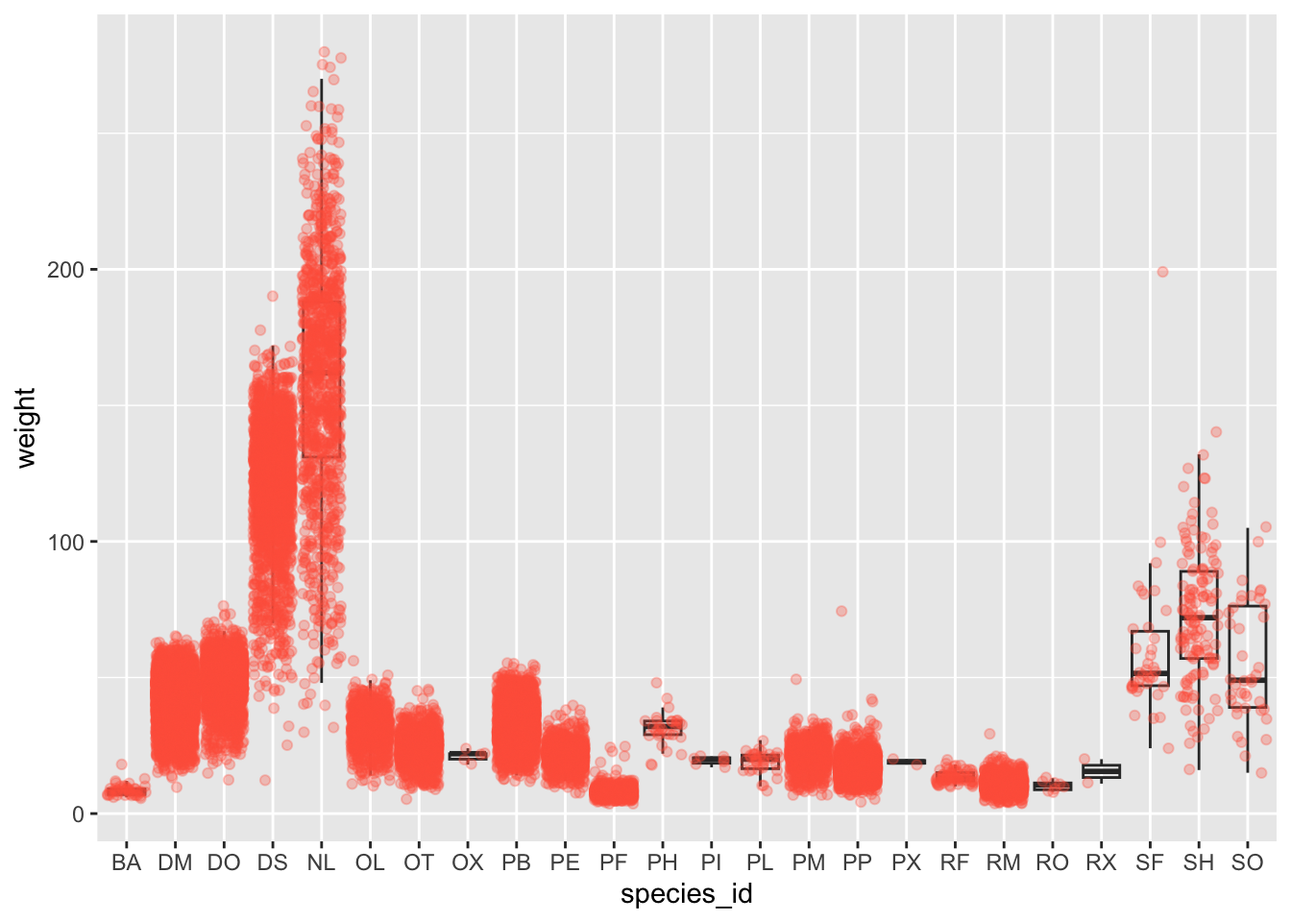
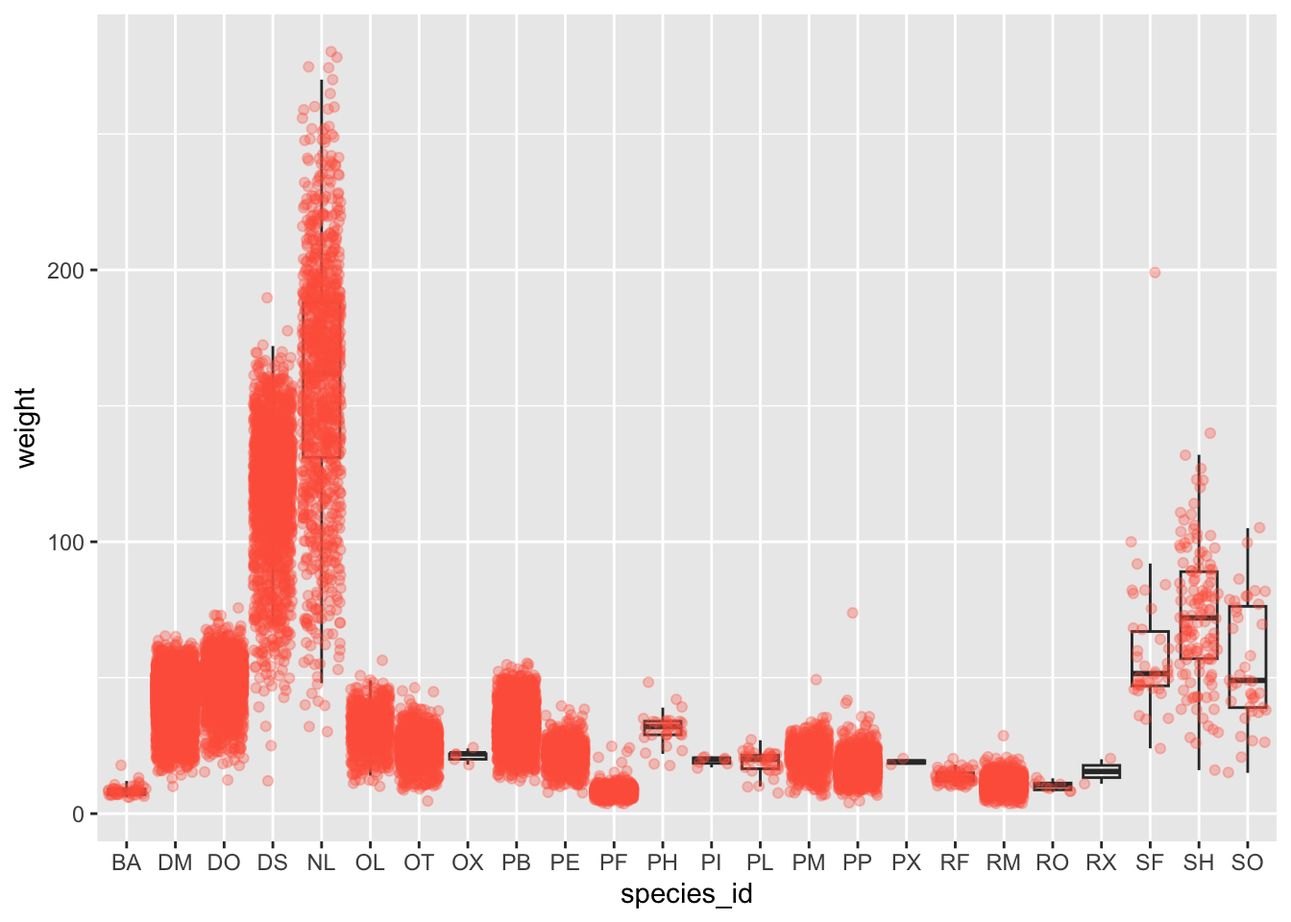
change bonus plot header

diff --git a/docs/lesson_wk07_data_visualization.html b/docs/lesson_wk07_data_visualization.html
@@ -487,10 +487,6 @@ Discussion</a></li>
 <p><a
 href="https://canvas.ucdavis.edu/courses/1019595/assignments/1509412">Submit
 Week 7 In Class Coding</a></p>
-</div>
-<div id="add-a-package-checkinstall-code-block-after-the-yaml-header."
-class="section level1">
-<h1>Add a package check/install code block after the YAML header.</h1>
 <p><br></p>
 </div>
 <div id="part-1-building-plots-with-ggplot2" class="section level1">
@@ -761,7 +757,7 @@ to the location of each point.</p>
 ## It has 2 layers.
 ## Layer 1 is a boxplot comprised of 24 vertical boxes with whiskers.
 ## Layer 1 has alpha set to 0.
-## Layer 2 is a set of 30676 big solid circle points of which about 3.8% can be seen.
+## Layer 2 is a set of 30676 big solid circle points of which about 3.7% can be seen.
 ## Layer 2 has alpha set to 0.3.
 ## Layer 2 has colour set to vivid reddish orange.</code></pre>
 <p>Notice how the boxplot layer is behind the jitter layer? What do you
@@ -817,7 +813,7 @@ ggplot(data = surveys_complete, mapping = aes(x = species_id, y = weight)) +
 ## It has x-axis &#39;species_id&#39; with labels BA, DM, DO, DS, NL, OL, OT, OX, PB, PE, PF, PH, PI, PL, PM, PP, PX, RF, RM, RO, RX, SF, SH and SO.
 ## It has y-axis &#39;weight&#39; with labels 10, 30, 100 and 300.
 ## It has 2 layers.
-## Layer 1 is a set of 30676 big solid circle points of which about 5% can be seen.
+## Layer 1 is a set of 30676 big solid circle points of which about 5.1% can be seen.
 ## Layer 1 has alpha set to 0.3.
 ## Layer 1 has colour set to vivid reddish orange.
 ## Layer 2 is a violin graph that VI cannot process.
@@ -858,7 +854,7 @@ surveys_complete %&gt;%
 ## 23 shown as vivid purplish red colour and 
 ## 24 shown as vivid purplish red colour.
 ## It has 2 layers.
-## Layer 1 is a set of 2514 big solid circle points of which about 39% can be seen.
+## Layer 1 is a set of 2514 big solid circle points of which about 40% can be seen.
 ## These are offset by added random noise, and sorted by as.factor(plot_id).
 ## Layer 1 has alpha set to 0.3.
 ## Layer 2 is a boxplot comprised of 2 vertical boxes with whiskers.
@@ -1880,11 +1876,11 @@ length and petal width visually looks like this:</p>
 <source src="sw.width.length.sound.wav" type="audio/wav">
 </audio>
 </div>
-<div id="bonus-content" class="section level2">
-<h2>BONUS CONTENT</h2>
+</div>
+<div id="bonus-content" class="section level1">
+<h1>BONUS CONTENT</h1>
 <p>This is provided for your reference, but won’t be something we cover
 in class or address on the exam.</p>
-</div>
 <div id="publishing-plots-cowplot" class="section level2">
 <h2>Publishing Plots: <code>cowplot</code></h2>
 <p>A few excellent options exist for creating multi-paneled plots for
@@ -1941,8 +1937,8 @@ plot.iris &lt;- ggplot(data=iris, aes(x=Sepal.Length, y=Petal.Length, fill=Speci
   geom_point(size=3, alpha=0.7, shape=21)
 
 plotly::ggplotly(plot.iris) #it&#39;s as simple as that! </code></pre>
-<div class="plotly html-widget html-fill-item" id="htmlwidget-76a84ceac3b45fcd2022" style="width:672px;height:480px;"></div>
-<script type="application/json" data-for="htmlwidget-76a84ceac3b45fcd2022">{"x":{"data":[{"x":[5.0999999999999996,4.9000000000000004,4.7000000000000002,4.5999999999999996,5,5.4000000000000004,4.5999999999999996,5,4.4000000000000004,4.9000000000000004,5.4000000000000004,4.7999999999999998,4.7999999999999998,4.2999999999999998,5.7999999999999998,5.7000000000000002,5.4000000000000004,5.0999999999999996,5.7000000000000002,5.0999999999999996,5.4000000000000004,5.0999999999999996,4.5999999999999996,5.0999999999999996,4.7999999999999998,5,5,5.2000000000000002,5.2000000000000002,4.7000000000000002,4.7999999999999998,5.4000000000000004,5.2000000000000002,5.5,4.9000000000000004,5,5.5,4.9000000000000004,4.4000000000000004,5.0999999999999996,5,4.5,4.4000000000000004,5,5.0999999999999996,4.7999999999999998,5.0999999999999996,4.5999999999999996,5.2999999999999998,5],"y":[1.3999999999999999,1.3999999999999999,1.3,1.5,1.3999999999999999,1.7,1.3999999999999999,1.5,1.3999999999999999,1.5,1.5,1.6000000000000001,1.3999999999999999,1.1000000000000001,1.2,1.5,1.3,1.3999999999999999,1.7,1.5,1.7,1.5,1,1.7,1.8999999999999999,1.6000000000000001,1.6000000000000001,1.5,1.3999999999999999,1.6000000000000001,1.6000000000000001,1.5,1.5,1.3999999999999999,1.5,1.2,1.3,1.3999999999999999,1.3,1.5,1.3,1.3,1.3,1.6000000000000001,1.8999999999999999,1.3999999999999999,1.6000000000000001,1.3999999999999999,1.5,1.3999999999999999],"text":["Sepal.Length: 5.1<br />Petal.Length: 1.4<br />Species: setosa","Sepal.Length: 4.9<br />Petal.Length: 1.4<br />Species: setosa","Sepal.Length: 4.7<br />Petal.Length: 1.3<br />Species: setosa","Sepal.Length: 4.6<br />Petal.Length: 1.5<br />Species: setosa","Sepal.Length: 5.0<br />Petal.Length: 1.4<br />Species: setosa","Sepal.Length: 5.4<br />Petal.Length: 1.7<br />Species: setosa","Sepal.Length: 4.6<br />Petal.Length: 1.4<br />Species: setosa","Sepal.Length: 5.0<br />Petal.Length: 1.5<br />Species: setosa","Sepal.Length: 4.4<br />Petal.Length: 1.4<br />Species: setosa","Sepal.Length: 4.9<br />Petal.Length: 1.5<br />Species: setosa","Sepal.Length: 5.4<br />Petal.Length: 1.5<br />Species: setosa","Sepal.Length: 4.8<br />Petal.Length: 1.6<br />Species: setosa","Sepal.Length: 4.8<br />Petal.Length: 1.4<br />Species: setosa","Sepal.Length: 4.3<br />Petal.Length: 1.1<br />Species: setosa","Sepal.Length: 5.8<br />Petal.Length: 1.2<br />Species: setosa","Sepal.Length: 5.7<br />Petal.Length: 1.5<br />Species: setosa","Sepal.Length: 5.4<br />Petal.Length: 1.3<br />Species: setosa","Sepal.Length: 5.1<br />Petal.Length: 1.4<br />Species: setosa","Sepal.Length: 5.7<br />Petal.Length: 1.7<br />Species: setosa","Sepal.Length: 5.1<br />Petal.Length: 1.5<br />Species: setosa","Sepal.Length: 5.4<br />Petal.Length: 1.7<br />Species: setosa","Sepal.Length: 5.1<br />Petal.Length: 1.5<br />Species: setosa","Sepal.Length: 4.6<br />Petal.Length: 1.0<br />Species: setosa","Sepal.Length: 5.1<br />Petal.Length: 1.7<br />Species: setosa","Sepal.Length: 4.8<br />Petal.Length: 1.9<br />Species: setosa","Sepal.Length: 5.0<br />Petal.Length: 1.6<br />Species: setosa","Sepal.Length: 5.0<br />Petal.Length: 1.6<br />Species: setosa","Sepal.Length: 5.2<br />Petal.Length: 1.5<br />Species: setosa","Sepal.Length: 5.2<br />Petal.Length: 1.4<br />Species: setosa","Sepal.Length: 4.7<br />Petal.Length: 1.6<br />Species: setosa","Sepal.Length: 4.8<br />Petal.Length: 1.6<br />Species: setosa","Sepal.Length: 5.4<br />Petal.Length: 1.5<br />Species: setosa","Sepal.Length: 5.2<br />Petal.Length: 1.5<br />Species: setosa","Sepal.Length: 5.5<br />Petal.Length: 1.4<br />Species: setosa","Sepal.Length: 4.9<br />Petal.Length: 1.5<br />Species: setosa","Sepal.Length: 5.0<br />Petal.Length: 1.2<br />Species: setosa","Sepal.Length: 5.5<br />Petal.Length: 1.3<br />Species: setosa","Sepal.Length: 4.9<br />Petal.Length: 1.4<br />Species: setosa","Sepal.Length: 4.4<br />Petal.Length: 1.3<br />Species: setosa","Sepal.Length: 5.1<br />Petal.Length: 1.5<br />Species: setosa","Sepal.Length: 5.0<br />Petal.Length: 1.3<br />Species: setosa","Sepal.Length: 4.5<br />Petal.Length: 1.3<br />Species: setosa","Sepal.Length: 4.4<br />Petal.Length: 1.3<br />Species: setosa","Sepal.Length: 5.0<br />Petal.Length: 1.6<br />Species: setosa","Sepal.Length: 5.1<br />Petal.Length: 1.9<br />Species: setosa","Sepal.Length: 4.8<br />Petal.Length: 1.4<br />Species: setosa","Sepal.Length: 5.1<br />Petal.Length: 1.6<br />Species: setosa","Sepal.Length: 4.6<br />Petal.Length: 1.4<br />Species: setosa","Sepal.Length: 5.3<br />Petal.Length: 1.5<br />Species: setosa","Sepal.Length: 5.0<br />Petal.Length: 1.4<br />Species: setosa"],"type":"scatter","mode":"markers","marker":{"autocolorscale":false,"color":"rgba(248,118,109,1)","opacity":0.69999999999999996,"size":11.338582677165356,"symbol":"circle","line":{"width":1.8897637795275593,"color":"rgba(0,0,0,1)"}},"hoveron":"points","name":"setosa","legendgroup":"setosa","showlegend":true,"xaxis":"x","yaxis":"y","hoverinfo":"text","frame":null},{"x":[7,6.4000000000000004,6.9000000000000004,5.5,6.5,5.7000000000000002,6.2999999999999998,4.9000000000000004,6.5999999999999996,5.2000000000000002,5,5.9000000000000004,6,6.0999999999999996,5.5999999999999996,6.7000000000000002,5.5999999999999996,5.7999999999999998,6.2000000000000002,5.5999999999999996,5.9000000000000004,6.0999999999999996,6.2999999999999998,6.0999999999999996,6.4000000000000004,6.5999999999999996,6.7999999999999998,6.7000000000000002,6,5.7000000000000002,5.5,5.5,5.7999999999999998,6,5.4000000000000004,6,6.7000000000000002,6.2999999999999998,5.5999999999999996,5.5,5.5,6.0999999999999996,5.7999999999999998,5,5.5999999999999996,5.7000000000000002,5.7000000000000002,6.2000000000000002,5.0999999999999996,5.7000000000000002],"y":[4.7000000000000002,4.5,4.9000000000000004,4,4.5999999999999996,4.5,4.7000000000000002,3.2999999999999998,4.5999999999999996,3.8999999999999999,3.5,4.2000000000000002,4,4.7000000000000002,3.6000000000000001,4.4000000000000004,4.5,4.0999999999999996,4.5,3.8999999999999999,4.7999999999999998,4,4.9000000000000004,4.7000000000000002,4.2999999999999998,4.4000000000000004,4.7999999999999998,5,4.5,3.5,3.7999999999999998,3.7000000000000002,3.8999999999999999,5.0999999999999996,4.5,4.5,4.7000000000000002,4.4000000000000004,4.0999999999999996,4,4.4000000000000004,4.5999999999999996,4,3.2999999999999998,4.2000000000000002,4.2000000000000002,4.2000000000000002,4.2999999999999998,3,4.0999999999999996],"text":["Sepal.Length: 7.0<br />Petal.Length: 4.7<br />Species: versicolor","Sepal.Length: 6.4<br />Petal.Length: 4.5<br />Species: versicolor","Sepal.Length: 6.9<br />Petal.Length: 4.9<br />Species: versicolor","Sepal.Length: 5.5<br />Petal.Length: 4.0<br />Species: versicolor","Sepal.Length: 6.5<br />Petal.Length: 4.6<br />Species: versicolor","Sepal.Length: 5.7<br />Petal.Length: 4.5<br />Species: versicolor","Sepal.Length: 6.3<br />Petal.Length: 4.7<br />Species: versicolor","Sepal.Length: 4.9<br />Petal.Length: 3.3<br />Species: versicolor","Sepal.Length: 6.6<br />Petal.Length: 4.6<br />Species: versicolor","Sepal.Length: 5.2<br />Petal.Length: 3.9<br />Species: versicolor","Sepal.Length: 5.0<br />Petal.Length: 3.5<br />Species: versicolor","Sepal.Length: 5.9<br />Petal.Length: 4.2<br />Species: versicolor","Sepal.Length: 6.0<br />Petal.Length: 4.0<br />Species: versicolor","Sepal.Length: 6.1<br />Petal.Length: 4.7<br />Species: versicolor","Sepal.Length: 5.6<br />Petal.Length: 3.6<br />Species: versicolor","Sepal.Length: 6.7<br />Petal.Length: 4.4<br />Species: versicolor","Sepal.Length: 5.6<br />Petal.Length: 4.5<br />Species: versicolor","Sepal.Length: 5.8<br />Petal.Length: 4.1<br />Species: versicolor","Sepal.Length: 6.2<br />Petal.Length: 4.5<br />Species: versicolor","Sepal.Length: 5.6<br />Petal.Length: 3.9<br />Species: versicolor","Sepal.Length: 5.9<br />Petal.Length: 4.8<br />Species: versicolor","Sepal.Length: 6.1<br />Petal.Length: 4.0<br />Species: versicolor","Sepal.Length: 6.3<br />Petal.Length: 4.9<br />Species: versicolor","Sepal.Length: 6.1<br />Petal.Length: 4.7<br />Species: versicolor","Sepal.Length: 6.4<br />Petal.Length: 4.3<br />Species: versicolor","Sepal.Length: 6.6<br />Petal.Length: 4.4<br />Species: versicolor","Sepal.Length: 6.8<br />Petal.Length: 4.8<br />Species: versicolor","Sepal.Length: 6.7<br />Petal.Length: 5.0<br />Species: versicolor","Sepal.Length: 6.0<br />Petal.Length: 4.5<br />Species: versicolor","Sepal.Length: 5.7<br />Petal.Length: 3.5<br />Species: versicolor","Sepal.Length: 5.5<br />Petal.Length: 3.8<br />Species: versicolor","Sepal.Length: 5.5<br />Petal.Length: 3.7<br />Species: versicolor","Sepal.Length: 5.8<br />Petal.Length: 3.9<br />Species: versicolor","Sepal.Length: 6.0<br />Petal.Length: 5.1<br />Species: versicolor","Sepal.Length: 5.4<br />Petal.Length: 4.5<br />Species: versicolor","Sepal.Length: 6.0<br />Petal.Length: 4.5<br />Species: versicolor","Sepal.Length: 6.7<br />Petal.Length: 4.7<br />Species: versicolor","Sepal.Length: 6.3<br />Petal.Length: 4.4<br />Species: versicolor","Sepal.Length: 5.6<br />Petal.Length: 4.1<br />Species: versicolor","Sepal.Length: 5.5<br />Petal.Length: 4.0<br />Species: versicolor","Sepal.Length: 5.5<br />Petal.Length: 4.4<br />Species: versicolor","Sepal.Length: 6.1<br />Petal.Length: 4.6<br />Species: versicolor","Sepal.Length: 5.8<br />Petal.Length: 4.0<br />Species: versicolor","Sepal.Length: 5.0<br />Petal.Length: 3.3<br />Species: versicolor","Sepal.Length: 5.6<br />Petal.Length: 4.2<br />Species: versicolor","Sepal.Length: 5.7<br />Petal.Length: 4.2<br />Species: versicolor","Sepal.Length: 5.7<br />Petal.Length: 4.2<br />Species: versicolor","Sepal.Length: 6.2<br />Petal.Length: 4.3<br />Species: versicolor","Sepal.Length: 5.1<br />Petal.Length: 3.0<br />Species: versicolor","Sepal.Length: 5.7<br />Petal.Length: 4.1<br />Species: versicolor"],"type":"scatter","mode":"markers","marker":{"autocolorscale":false,"color":"rgba(0,186,56,1)","opacity":0.69999999999999996,"size":11.338582677165356,"symbol":"circle","line":{"width":1.8897637795275593,"color":"rgba(0,0,0,1)"}},"hoveron":"points","name":"versicolor","legendgroup":"versicolor","showlegend":true,"xaxis":"x","yaxis":"y","hoverinfo":"text","frame":null},{"x":[6.2999999999999998,5.7999999999999998,7.0999999999999996,6.2999999999999998,6.5,7.5999999999999996,4.9000000000000004,7.2999999999999998,6.7000000000000002,7.2000000000000002,6.5,6.4000000000000004,6.7999999999999998,5.7000000000000002,5.7999999999999998,6.4000000000000004,6.5,7.7000000000000002,7.7000000000000002,6,6.9000000000000004,5.5999999999999996,7.7000000000000002,6.2999999999999998,6.7000000000000002,7.2000000000000002,6.2000000000000002,6.0999999999999996,6.4000000000000004,7.2000000000000002,7.4000000000000004,7.9000000000000004,6.4000000000000004,6.2999999999999998,6.0999999999999996,7.7000000000000002,6.2999999999999998,6.4000000000000004,6,6.9000000000000004,6.7000000000000002,6.9000000000000004,5.7999999999999998,6.7999999999999998,6.7000000000000002,6.7000000000000002,6.2999999999999998,6.5,6.2000000000000002,5.9000000000000004],"y":[6,5.0999999999999996,5.9000000000000004,5.5999999999999996,5.7999999999999998,6.5999999999999996,4.5,6.2999999999999998,5.7999999999999998,6.0999999999999996,5.0999999999999996,5.2999999999999998,5.5,5,5.0999999999999996,5.2999999999999998,5.5,6.7000000000000002,6.9000000000000004,5,5.7000000000000002,4.9000000000000004,6.7000000000000002,4.9000000000000004,5.7000000000000002,6,4.7999999999999998,4.9000000000000004,5.5999999999999996,5.7999999999999998,6.0999999999999996,6.4000000000000004,5.5999999999999996,5.0999999999999996,5.5999999999999996,6.0999999999999996,5.5999999999999996,5.5,4.7999999999999998,5.4000000000000004,5.5999999999999996,5.0999999999999996,5.0999999999999996,5.9000000000000004,5.7000000000000002,5.2000000000000002,5,5.2000000000000002,5.4000000000000004,5.0999999999999996],"text":["Sepal.Length: 6.3<br />Petal.Length: 6.0<br />Species: virginica","Sepal.Length: 5.8<br />Petal.Length: 5.1<br />Species: virginica","Sepal.Length: 7.1<br />Petal.Length: 5.9<br />Species: virginica","Sepal.Length: 6.3<br />Petal.Length: 5.6<br />Species: virginica","Sepal.Length: 6.5<br />Petal.Length: 5.8<br />Species: virginica","Sepal.Length: 7.6<br />Petal.Length: 6.6<br />Species: virginica","Sepal.Length: 4.9<br />Petal.Length: 4.5<br />Species: virginica","Sepal.Length: 7.3<br />Petal.Length: 6.3<br />Species: virginica","Sepal.Length: 6.7<br />Petal.Length: 5.8<br />Species: virginica","Sepal.Length: 7.2<br />Petal.Length: 6.1<br />Species: virginica","Sepal.Length: 6.5<br />Petal.Length: 5.1<br />Species: virginica","Sepal.Length: 6.4<br />Petal.Length: 5.3<br />Species: virginica","Sepal.Length: 6.8<br />Petal.Length: 5.5<br />Species: virginica","Sepal.Length: 5.7<br />Petal.Length: 5.0<br />Species: virginica","Sepal.Length: 5.8<br />Petal.Length: 5.1<br />Species: virginica","Sepal.Length: 6.4<br />Petal.Length: 5.3<br />Species: virginica","Sepal.Length: 6.5<br />Petal.Length: 5.5<br />Species: virginica","Sepal.Length: 7.7<br />Petal.Length: 6.7<br />Species: virginica","Sepal.Length: 7.7<br />Petal.Length: 6.9<br />Species: virginica","Sepal.Length: 6.0<br />Petal.Length: 5.0<br />Species: virginica","Sepal.Length: 6.9<br />Petal.Length: 5.7<br />Species: virginica","Sepal.Length: 5.6<br />Petal.Length: 4.9<br />Species: virginica","Sepal.Length: 7.7<br />Petal.Length: 6.7<br />Species: virginica","Sepal.Length: 6.3<br />Petal.Length: 4.9<br />Species: virginica","Sepal.Length: 6.7<br />Petal.Length: 5.7<br />Species: virginica","Sepal.Length: 7.2<br />Petal.Length: 6.0<br />Species: virginica","Sepal.Length: 6.2<br />Petal.Length: 4.8<br />Species: virginica","Sepal.Length: 6.1<br />Petal.Length: 4.9<br />Species: virginica","Sepal.Length: 6.4<br />Petal.Length: 5.6<br />Species: virginica","Sepal.Length: 7.2<br />Petal.Length: 5.8<br />Species: virginica","Sepal.Length: 7.4<br />Petal.Length: 6.1<br />Species: virginica","Sepal.Length: 7.9<br />Petal.Length: 6.4<br />Species: virginica","Sepal.Length: 6.4<br />Petal.Length: 5.6<br />Species: virginica","Sepal.Length: 6.3<br />Petal.Length: 5.1<br />Species: virginica","Sepal.Length: 6.1<br />Petal.Length: 5.6<br />Species: virginica","Sepal.Length: 7.7<br />Petal.Length: 6.1<br />Species: virginica","Sepal.Length: 6.3<br />Petal.Length: 5.6<br />Species: virginica","Sepal.Length: 6.4<br />Petal.Length: 5.5<br />Species: virginica","Sepal.Length: 6.0<br />Petal.Length: 4.8<br />Species: virginica","Sepal.Length: 6.9<br />Petal.Length: 5.4<br />Species: virginica","Sepal.Length: 6.7<br />Petal.Length: 5.6<br />Species: virginica","Sepal.Length: 6.9<br />Petal.Length: 5.1<br />Species: virginica","Sepal.Length: 5.8<br />Petal.Length: 5.1<br />Species: virginica","Sepal.Length: 6.8<br />Petal.Length: 5.9<br />Species: virginica","Sepal.Length: 6.7<br />Petal.Length: 5.7<br />Species: virginica","Sepal.Length: 6.7<br />Petal.Length: 5.2<br />Species: virginica","Sepal.Length: 6.3<br />Petal.Length: 5.0<br />Species: virginica","Sepal.Length: 6.5<br />Petal.Length: 5.2<br />Species: virginica","Sepal.Length: 6.2<br />Petal.Length: 5.4<br />Species: virginica","Sepal.Length: 5.9<br />Petal.Length: 5.1<br />Species: virginica"],"type":"scatter","mode":"markers","marker":{"autocolorscale":false,"color":"rgba(97,156,255,1)","opacity":0.69999999999999996,"size":11.338582677165356,"symbol":"circle","line":{"width":1.8897637795275593,"color":"rgba(0,0,0,1)"}},"hoveron":"points","name":"virginica","legendgroup":"virginica","showlegend":true,"xaxis":"x","yaxis":"y","hoverinfo":"text","frame":null}],"layout":{"margin":{"t":26.228310502283108,"r":7.3059360730593621,"b":40.182648401826498,"l":31.415525114155255},"plot_bgcolor":"rgba(235,235,235,1)","paper_bgcolor":"rgba(255,255,255,1)","font":{"color":"rgba(0,0,0,1)","family":"","size":14.611872146118724},"xaxis":{"domain":[0,1],"automargin":true,"type":"linear","autorange":false,"range":[4.1200000000000001,8.0800000000000001],"tickmode":"array","ticktext":["5","6","7","8"],"tickvals":[5,6,7,8],"categoryorder":"array","categoryarray":["5","6","7","8"],"nticks":null,"ticks":"outside","tickcolor":"rgba(51,51,51,1)","ticklen":3.6529680365296811,"tickwidth":0.66417600664176002,"showticklabels":true,"tickfont":{"color":"rgba(77,77,77,1)","family":"","size":11.68949771689498},"tickangle":-0,"showline":false,"linecolor":null,"linewidth":0,"showgrid":true,"gridcolor":"rgba(255,255,255,1)","gridwidth":0.66417600664176002,"zeroline":false,"anchor":"y","title":{"text":"Sepal.Length","font":{"color":"rgba(0,0,0,1)","family":"","size":14.611872146118724}},"hoverformat":".2f"},"yaxis":{"domain":[0,1],"automargin":true,"type":"linear","autorange":false,"range":[0.70499999999999996,7.1950000000000003],"tickmode":"array","ticktext":["2","4","6"],"tickvals":[2,4,6],"categoryorder":"array","categoryarray":["2","4","6"],"nticks":null,"ticks":"outside","tickcolor":"rgba(51,51,51,1)","ticklen":3.6529680365296811,"tickwidth":0.66417600664176002,"showticklabels":true,"tickfont":{"color":"rgba(77,77,77,1)","family":"","size":11.68949771689498},"tickangle":-0,"showline":false,"linecolor":null,"linewidth":0,"showgrid":true,"gridcolor":"rgba(255,255,255,1)","gridwidth":0.66417600664176002,"zeroline":false,"anchor":"x","title":{"text":"Petal.Length","font":{"color":"rgba(0,0,0,1)","family":"","size":14.611872146118724}},"hoverformat":".2f"},"shapes":[{"type":"rect","fillcolor":null,"line":{"color":null,"width":0,"linetype":[]},"yref":"paper","xref":"paper","x0":0,"x1":1,"y0":0,"y1":1}],"showlegend":true,"legend":{"bgcolor":"rgba(255,255,255,1)","bordercolor":"transparent","borderwidth":1.8897637795275593,"font":{"color":"rgba(0,0,0,1)","family":"","size":11.68949771689498},"title":{"text":"Species","font":{"color":"rgba(0,0,0,1)","family":"","size":14.611872146118724}}},"hovermode":"closest","barmode":"relative"},"config":{"doubleClick":"reset","modeBarButtonsToAdd":["hoverclosest","hovercompare"],"showSendToCloud":false},"source":"A","attrs":{"e0757aad49c6":{"x":{},"y":{},"fill":{},"type":"scatter"}},"cur_data":"e0757aad49c6","visdat":{"e0757aad49c6":["function (y) ","x"]},"highlight":{"on":"plotly_click","persistent":false,"dynamic":false,"selectize":false,"opacityDim":0.20000000000000001,"selected":{"opacity":1},"debounce":0},"shinyEvents":["plotly_hover","plotly_click","plotly_selected","plotly_relayout","plotly_brushed","plotly_brushing","plotly_clickannotation","plotly_doubleclick","plotly_deselect","plotly_afterplot","plotly_sunburstclick"],"base_url":"https://plot.ly"},"evals":[],"jsHooks":[]}</script>
+<div class="plotly html-widget html-fill-item" id="htmlwidget-6567434a2c09bfb395b1" style="width:672px;height:480px;"></div>
+<script type="application/json" data-for="htmlwidget-6567434a2c09bfb395b1">{"x":{"data":[{"x":[5.0999999999999996,4.9000000000000004,4.7000000000000002,4.5999999999999996,5,5.4000000000000004,4.5999999999999996,5,4.4000000000000004,4.9000000000000004,5.4000000000000004,4.7999999999999998,4.7999999999999998,4.2999999999999998,5.7999999999999998,5.7000000000000002,5.4000000000000004,5.0999999999999996,5.7000000000000002,5.0999999999999996,5.4000000000000004,5.0999999999999996,4.5999999999999996,5.0999999999999996,4.7999999999999998,5,5,5.2000000000000002,5.2000000000000002,4.7000000000000002,4.7999999999999998,5.4000000000000004,5.2000000000000002,5.5,4.9000000000000004,5,5.5,4.9000000000000004,4.4000000000000004,5.0999999999999996,5,4.5,4.4000000000000004,5,5.0999999999999996,4.7999999999999998,5.0999999999999996,4.5999999999999996,5.2999999999999998,5],"y":[1.3999999999999999,1.3999999999999999,1.3,1.5,1.3999999999999999,1.7,1.3999999999999999,1.5,1.3999999999999999,1.5,1.5,1.6000000000000001,1.3999999999999999,1.1000000000000001,1.2,1.5,1.3,1.3999999999999999,1.7,1.5,1.7,1.5,1,1.7,1.8999999999999999,1.6000000000000001,1.6000000000000001,1.5,1.3999999999999999,1.6000000000000001,1.6000000000000001,1.5,1.5,1.3999999999999999,1.5,1.2,1.3,1.3999999999999999,1.3,1.5,1.3,1.3,1.3,1.6000000000000001,1.8999999999999999,1.3999999999999999,1.6000000000000001,1.3999999999999999,1.5,1.3999999999999999],"text":["Sepal.Length: 5.1<br />Petal.Length: 1.4<br />Species: setosa","Sepal.Length: 4.9<br />Petal.Length: 1.4<br />Species: setosa","Sepal.Length: 4.7<br />Petal.Length: 1.3<br />Species: setosa","Sepal.Length: 4.6<br />Petal.Length: 1.5<br />Species: setosa","Sepal.Length: 5.0<br />Petal.Length: 1.4<br />Species: setosa","Sepal.Length: 5.4<br />Petal.Length: 1.7<br />Species: setosa","Sepal.Length: 4.6<br />Petal.Length: 1.4<br />Species: setosa","Sepal.Length: 5.0<br />Petal.Length: 1.5<br />Species: setosa","Sepal.Length: 4.4<br />Petal.Length: 1.4<br />Species: setosa","Sepal.Length: 4.9<br />Petal.Length: 1.5<br />Species: setosa","Sepal.Length: 5.4<br />Petal.Length: 1.5<br />Species: setosa","Sepal.Length: 4.8<br />Petal.Length: 1.6<br />Species: setosa","Sepal.Length: 4.8<br />Petal.Length: 1.4<br />Species: setosa","Sepal.Length: 4.3<br />Petal.Length: 1.1<br />Species: setosa","Sepal.Length: 5.8<br />Petal.Length: 1.2<br />Species: setosa","Sepal.Length: 5.7<br />Petal.Length: 1.5<br />Species: setosa","Sepal.Length: 5.4<br />Petal.Length: 1.3<br />Species: setosa","Sepal.Length: 5.1<br />Petal.Length: 1.4<br />Species: setosa","Sepal.Length: 5.7<br />Petal.Length: 1.7<br />Species: setosa","Sepal.Length: 5.1<br />Petal.Length: 1.5<br />Species: setosa","Sepal.Length: 5.4<br />Petal.Length: 1.7<br />Species: setosa","Sepal.Length: 5.1<br />Petal.Length: 1.5<br />Species: setosa","Sepal.Length: 4.6<br />Petal.Length: 1.0<br />Species: setosa","Sepal.Length: 5.1<br />Petal.Length: 1.7<br />Species: setosa","Sepal.Length: 4.8<br />Petal.Length: 1.9<br />Species: setosa","Sepal.Length: 5.0<br />Petal.Length: 1.6<br />Species: setosa","Sepal.Length: 5.0<br />Petal.Length: 1.6<br />Species: setosa","Sepal.Length: 5.2<br />Petal.Length: 1.5<br />Species: setosa","Sepal.Length: 5.2<br />Petal.Length: 1.4<br />Species: setosa","Sepal.Length: 4.7<br />Petal.Length: 1.6<br />Species: setosa","Sepal.Length: 4.8<br />Petal.Length: 1.6<br />Species: setosa","Sepal.Length: 5.4<br />Petal.Length: 1.5<br />Species: setosa","Sepal.Length: 5.2<br />Petal.Length: 1.5<br />Species: setosa","Sepal.Length: 5.5<br />Petal.Length: 1.4<br />Species: setosa","Sepal.Length: 4.9<br />Petal.Length: 1.5<br />Species: setosa","Sepal.Length: 5.0<br />Petal.Length: 1.2<br />Species: setosa","Sepal.Length: 5.5<br />Petal.Length: 1.3<br />Species: setosa","Sepal.Length: 4.9<br />Petal.Length: 1.4<br />Species: setosa","Sepal.Length: 4.4<br />Petal.Length: 1.3<br />Species: setosa","Sepal.Length: 5.1<br />Petal.Length: 1.5<br />Species: setosa","Sepal.Length: 5.0<br />Petal.Length: 1.3<br />Species: setosa","Sepal.Length: 4.5<br />Petal.Length: 1.3<br />Species: setosa","Sepal.Length: 4.4<br />Petal.Length: 1.3<br />Species: setosa","Sepal.Length: 5.0<br />Petal.Length: 1.6<br />Species: setosa","Sepal.Length: 5.1<br />Petal.Length: 1.9<br />Species: setosa","Sepal.Length: 4.8<br />Petal.Length: 1.4<br />Species: setosa","Sepal.Length: 5.1<br />Petal.Length: 1.6<br />Species: setosa","Sepal.Length: 4.6<br />Petal.Length: 1.4<br />Species: setosa","Sepal.Length: 5.3<br />Petal.Length: 1.5<br />Species: setosa","Sepal.Length: 5.0<br />Petal.Length: 1.4<br />Species: setosa"],"type":"scatter","mode":"markers","marker":{"autocolorscale":false,"color":"rgba(248,118,109,1)","opacity":0.69999999999999996,"size":11.338582677165356,"symbol":"circle","line":{"width":1.8897637795275593,"color":"rgba(0,0,0,1)"}},"hoveron":"points","name":"setosa","legendgroup":"setosa","showlegend":true,"xaxis":"x","yaxis":"y","hoverinfo":"text","frame":null},{"x":[7,6.4000000000000004,6.9000000000000004,5.5,6.5,5.7000000000000002,6.2999999999999998,4.9000000000000004,6.5999999999999996,5.2000000000000002,5,5.9000000000000004,6,6.0999999999999996,5.5999999999999996,6.7000000000000002,5.5999999999999996,5.7999999999999998,6.2000000000000002,5.5999999999999996,5.9000000000000004,6.0999999999999996,6.2999999999999998,6.0999999999999996,6.4000000000000004,6.5999999999999996,6.7999999999999998,6.7000000000000002,6,5.7000000000000002,5.5,5.5,5.7999999999999998,6,5.4000000000000004,6,6.7000000000000002,6.2999999999999998,5.5999999999999996,5.5,5.5,6.0999999999999996,5.7999999999999998,5,5.5999999999999996,5.7000000000000002,5.7000000000000002,6.2000000000000002,5.0999999999999996,5.7000000000000002],"y":[4.7000000000000002,4.5,4.9000000000000004,4,4.5999999999999996,4.5,4.7000000000000002,3.2999999999999998,4.5999999999999996,3.8999999999999999,3.5,4.2000000000000002,4,4.7000000000000002,3.6000000000000001,4.4000000000000004,4.5,4.0999999999999996,4.5,3.8999999999999999,4.7999999999999998,4,4.9000000000000004,4.7000000000000002,4.2999999999999998,4.4000000000000004,4.7999999999999998,5,4.5,3.5,3.7999999999999998,3.7000000000000002,3.8999999999999999,5.0999999999999996,4.5,4.5,4.7000000000000002,4.4000000000000004,4.0999999999999996,4,4.4000000000000004,4.5999999999999996,4,3.2999999999999998,4.2000000000000002,4.2000000000000002,4.2000000000000002,4.2999999999999998,3,4.0999999999999996],"text":["Sepal.Length: 7.0<br />Petal.Length: 4.7<br />Species: versicolor","Sepal.Length: 6.4<br />Petal.Length: 4.5<br />Species: versicolor","Sepal.Length: 6.9<br />Petal.Length: 4.9<br />Species: versicolor","Sepal.Length: 5.5<br />Petal.Length: 4.0<br />Species: versicolor","Sepal.Length: 6.5<br />Petal.Length: 4.6<br />Species: versicolor","Sepal.Length: 5.7<br />Petal.Length: 4.5<br />Species: versicolor","Sepal.Length: 6.3<br />Petal.Length: 4.7<br />Species: versicolor","Sepal.Length: 4.9<br />Petal.Length: 3.3<br />Species: versicolor","Sepal.Length: 6.6<br />Petal.Length: 4.6<br />Species: versicolor","Sepal.Length: 5.2<br />Petal.Length: 3.9<br />Species: versicolor","Sepal.Length: 5.0<br />Petal.Length: 3.5<br />Species: versicolor","Sepal.Length: 5.9<br />Petal.Length: 4.2<br />Species: versicolor","Sepal.Length: 6.0<br />Petal.Length: 4.0<br />Species: versicolor","Sepal.Length: 6.1<br />Petal.Length: 4.7<br />Species: versicolor","Sepal.Length: 5.6<br />Petal.Length: 3.6<br />Species: versicolor","Sepal.Length: 6.7<br />Petal.Length: 4.4<br />Species: versicolor","Sepal.Length: 5.6<br />Petal.Length: 4.5<br />Species: versicolor","Sepal.Length: 5.8<br />Petal.Length: 4.1<br />Species: versicolor","Sepal.Length: 6.2<br />Petal.Length: 4.5<br />Species: versicolor","Sepal.Length: 5.6<br />Petal.Length: 3.9<br />Species: versicolor","Sepal.Length: 5.9<br />Petal.Length: 4.8<br />Species: versicolor","Sepal.Length: 6.1<br />Petal.Length: 4.0<br />Species: versicolor","Sepal.Length: 6.3<br />Petal.Length: 4.9<br />Species: versicolor","Sepal.Length: 6.1<br />Petal.Length: 4.7<br />Species: versicolor","Sepal.Length: 6.4<br />Petal.Length: 4.3<br />Species: versicolor","Sepal.Length: 6.6<br />Petal.Length: 4.4<br />Species: versicolor","Sepal.Length: 6.8<br />Petal.Length: 4.8<br />Species: versicolor","Sepal.Length: 6.7<br />Petal.Length: 5.0<br />Species: versicolor","Sepal.Length: 6.0<br />Petal.Length: 4.5<br />Species: versicolor","Sepal.Length: 5.7<br />Petal.Length: 3.5<br />Species: versicolor","Sepal.Length: 5.5<br />Petal.Length: 3.8<br />Species: versicolor","Sepal.Length: 5.5<br />Petal.Length: 3.7<br />Species: versicolor","Sepal.Length: 5.8<br />Petal.Length: 3.9<br />Species: versicolor","Sepal.Length: 6.0<br />Petal.Length: 5.1<br />Species: versicolor","Sepal.Length: 5.4<br />Petal.Length: 4.5<br />Species: versicolor","Sepal.Length: 6.0<br />Petal.Length: 4.5<br />Species: versicolor","Sepal.Length: 6.7<br />Petal.Length: 4.7<br />Species: versicolor","Sepal.Length: 6.3<br />Petal.Length: 4.4<br />Species: versicolor","Sepal.Length: 5.6<br />Petal.Length: 4.1<br />Species: versicolor","Sepal.Length: 5.5<br />Petal.Length: 4.0<br />Species: versicolor","Sepal.Length: 5.5<br />Petal.Length: 4.4<br />Species: versicolor","Sepal.Length: 6.1<br />Petal.Length: 4.6<br />Species: versicolor","Sepal.Length: 5.8<br />Petal.Length: 4.0<br />Species: versicolor","Sepal.Length: 5.0<br />Petal.Length: 3.3<br />Species: versicolor","Sepal.Length: 5.6<br />Petal.Length: 4.2<br />Species: versicolor","Sepal.Length: 5.7<br />Petal.Length: 4.2<br />Species: versicolor","Sepal.Length: 5.7<br />Petal.Length: 4.2<br />Species: versicolor","Sepal.Length: 6.2<br />Petal.Length: 4.3<br />Species: versicolor","Sepal.Length: 5.1<br />Petal.Length: 3.0<br />Species: versicolor","Sepal.Length: 5.7<br />Petal.Length: 4.1<br />Species: versicolor"],"type":"scatter","mode":"markers","marker":{"autocolorscale":false,"color":"rgba(0,186,56,1)","opacity":0.69999999999999996,"size":11.338582677165356,"symbol":"circle","line":{"width":1.8897637795275593,"color":"rgba(0,0,0,1)"}},"hoveron":"points","name":"versicolor","legendgroup":"versicolor","showlegend":true,"xaxis":"x","yaxis":"y","hoverinfo":"text","frame":null},{"x":[6.2999999999999998,5.7999999999999998,7.0999999999999996,6.2999999999999998,6.5,7.5999999999999996,4.9000000000000004,7.2999999999999998,6.7000000000000002,7.2000000000000002,6.5,6.4000000000000004,6.7999999999999998,5.7000000000000002,5.7999999999999998,6.4000000000000004,6.5,7.7000000000000002,7.7000000000000002,6,6.9000000000000004,5.5999999999999996,7.7000000000000002,6.2999999999999998,6.7000000000000002,7.2000000000000002,6.2000000000000002,6.0999999999999996,6.4000000000000004,7.2000000000000002,7.4000000000000004,7.9000000000000004,6.4000000000000004,6.2999999999999998,6.0999999999999996,7.7000000000000002,6.2999999999999998,6.4000000000000004,6,6.9000000000000004,6.7000000000000002,6.9000000000000004,5.7999999999999998,6.7999999999999998,6.7000000000000002,6.7000000000000002,6.2999999999999998,6.5,6.2000000000000002,5.9000000000000004],"y":[6,5.0999999999999996,5.9000000000000004,5.5999999999999996,5.7999999999999998,6.5999999999999996,4.5,6.2999999999999998,5.7999999999999998,6.0999999999999996,5.0999999999999996,5.2999999999999998,5.5,5,5.0999999999999996,5.2999999999999998,5.5,6.7000000000000002,6.9000000000000004,5,5.7000000000000002,4.9000000000000004,6.7000000000000002,4.9000000000000004,5.7000000000000002,6,4.7999999999999998,4.9000000000000004,5.5999999999999996,5.7999999999999998,6.0999999999999996,6.4000000000000004,5.5999999999999996,5.0999999999999996,5.5999999999999996,6.0999999999999996,5.5999999999999996,5.5,4.7999999999999998,5.4000000000000004,5.5999999999999996,5.0999999999999996,5.0999999999999996,5.9000000000000004,5.7000000000000002,5.2000000000000002,5,5.2000000000000002,5.4000000000000004,5.0999999999999996],"text":["Sepal.Length: 6.3<br />Petal.Length: 6.0<br />Species: virginica","Sepal.Length: 5.8<br />Petal.Length: 5.1<br />Species: virginica","Sepal.Length: 7.1<br />Petal.Length: 5.9<br />Species: virginica","Sepal.Length: 6.3<br />Petal.Length: 5.6<br />Species: virginica","Sepal.Length: 6.5<br />Petal.Length: 5.8<br />Species: virginica","Sepal.Length: 7.6<br />Petal.Length: 6.6<br />Species: virginica","Sepal.Length: 4.9<br />Petal.Length: 4.5<br />Species: virginica","Sepal.Length: 7.3<br />Petal.Length: 6.3<br />Species: virginica","Sepal.Length: 6.7<br />Petal.Length: 5.8<br />Species: virginica","Sepal.Length: 7.2<br />Petal.Length: 6.1<br />Species: virginica","Sepal.Length: 6.5<br />Petal.Length: 5.1<br />Species: virginica","Sepal.Length: 6.4<br />Petal.Length: 5.3<br />Species: virginica","Sepal.Length: 6.8<br />Petal.Length: 5.5<br />Species: virginica","Sepal.Length: 5.7<br />Petal.Length: 5.0<br />Species: virginica","Sepal.Length: 5.8<br />Petal.Length: 5.1<br />Species: virginica","Sepal.Length: 6.4<br />Petal.Length: 5.3<br />Species: virginica","Sepal.Length: 6.5<br />Petal.Length: 5.5<br />Species: virginica","Sepal.Length: 7.7<br />Petal.Length: 6.7<br />Species: virginica","Sepal.Length: 7.7<br />Petal.Length: 6.9<br />Species: virginica","Sepal.Length: 6.0<br />Petal.Length: 5.0<br />Species: virginica","Sepal.Length: 6.9<br />Petal.Length: 5.7<br />Species: virginica","Sepal.Length: 5.6<br />Petal.Length: 4.9<br />Species: virginica","Sepal.Length: 7.7<br />Petal.Length: 6.7<br />Species: virginica","Sepal.Length: 6.3<br />Petal.Length: 4.9<br />Species: virginica","Sepal.Length: 6.7<br />Petal.Length: 5.7<br />Species: virginica","Sepal.Length: 7.2<br />Petal.Length: 6.0<br />Species: virginica","Sepal.Length: 6.2<br />Petal.Length: 4.8<br />Species: virginica","Sepal.Length: 6.1<br />Petal.Length: 4.9<br />Species: virginica","Sepal.Length: 6.4<br />Petal.Length: 5.6<br />Species: virginica","Sepal.Length: 7.2<br />Petal.Length: 5.8<br />Species: virginica","Sepal.Length: 7.4<br />Petal.Length: 6.1<br />Species: virginica","Sepal.Length: 7.9<br />Petal.Length: 6.4<br />Species: virginica","Sepal.Length: 6.4<br />Petal.Length: 5.6<br />Species: virginica","Sepal.Length: 6.3<br />Petal.Length: 5.1<br />Species: virginica","Sepal.Length: 6.1<br />Petal.Length: 5.6<br />Species: virginica","Sepal.Length: 7.7<br />Petal.Length: 6.1<br />Species: virginica","Sepal.Length: 6.3<br />Petal.Length: 5.6<br />Species: virginica","Sepal.Length: 6.4<br />Petal.Length: 5.5<br />Species: virginica","Sepal.Length: 6.0<br />Petal.Length: 4.8<br />Species: virginica","Sepal.Length: 6.9<br />Petal.Length: 5.4<br />Species: virginica","Sepal.Length: 6.7<br />Petal.Length: 5.6<br />Species: virginica","Sepal.Length: 6.9<br />Petal.Length: 5.1<br />Species: virginica","Sepal.Length: 5.8<br />Petal.Length: 5.1<br />Species: virginica","Sepal.Length: 6.8<br />Petal.Length: 5.9<br />Species: virginica","Sepal.Length: 6.7<br />Petal.Length: 5.7<br />Species: virginica","Sepal.Length: 6.7<br />Petal.Length: 5.2<br />Species: virginica","Sepal.Length: 6.3<br />Petal.Length: 5.0<br />Species: virginica","Sepal.Length: 6.5<br />Petal.Length: 5.2<br />Species: virginica","Sepal.Length: 6.2<br />Petal.Length: 5.4<br />Species: virginica","Sepal.Length: 5.9<br />Petal.Length: 5.1<br />Species: virginica"],"type":"scatter","mode":"markers","marker":{"autocolorscale":false,"color":"rgba(97,156,255,1)","opacity":0.69999999999999996,"size":11.338582677165356,"symbol":"circle","line":{"width":1.8897637795275593,"color":"rgba(0,0,0,1)"}},"hoveron":"points","name":"virginica","legendgroup":"virginica","showlegend":true,"xaxis":"x","yaxis":"y","hoverinfo":"text","frame":null}],"layout":{"margin":{"t":26.228310502283108,"r":7.3059360730593621,"b":40.182648401826498,"l":31.415525114155255},"plot_bgcolor":"rgba(235,235,235,1)","paper_bgcolor":"rgba(255,255,255,1)","font":{"color":"rgba(0,0,0,1)","family":"","size":14.611872146118724},"xaxis":{"domain":[0,1],"automargin":true,"type":"linear","autorange":false,"range":[4.1200000000000001,8.0800000000000001],"tickmode":"array","ticktext":["5","6","7","8"],"tickvals":[5,6,7,8],"categoryorder":"array","categoryarray":["5","6","7","8"],"nticks":null,"ticks":"outside","tickcolor":"rgba(51,51,51,1)","ticklen":3.6529680365296811,"tickwidth":0.66417600664176002,"showticklabels":true,"tickfont":{"color":"rgba(77,77,77,1)","family":"","size":11.68949771689498},"tickangle":-0,"showline":false,"linecolor":null,"linewidth":0,"showgrid":true,"gridcolor":"rgba(255,255,255,1)","gridwidth":0.66417600664176002,"zeroline":false,"anchor":"y","title":{"text":"Sepal.Length","font":{"color":"rgba(0,0,0,1)","family":"","size":14.611872146118724}},"hoverformat":".2f"},"yaxis":{"domain":[0,1],"automargin":true,"type":"linear","autorange":false,"range":[0.70499999999999996,7.1950000000000003],"tickmode":"array","ticktext":["2","4","6"],"tickvals":[2,4,6],"categoryorder":"array","categoryarray":["2","4","6"],"nticks":null,"ticks":"outside","tickcolor":"rgba(51,51,51,1)","ticklen":3.6529680365296811,"tickwidth":0.66417600664176002,"showticklabels":true,"tickfont":{"color":"rgba(77,77,77,1)","family":"","size":11.68949771689498},"tickangle":-0,"showline":false,"linecolor":null,"linewidth":0,"showgrid":true,"gridcolor":"rgba(255,255,255,1)","gridwidth":0.66417600664176002,"zeroline":false,"anchor":"x","title":{"text":"Petal.Length","font":{"color":"rgba(0,0,0,1)","family":"","size":14.611872146118724}},"hoverformat":".2f"},"shapes":[{"type":"rect","fillcolor":null,"line":{"color":null,"width":0,"linetype":[]},"yref":"paper","xref":"paper","x0":0,"x1":1,"y0":0,"y1":1}],"showlegend":true,"legend":{"bgcolor":"rgba(255,255,255,1)","bordercolor":"transparent","borderwidth":1.8897637795275593,"font":{"color":"rgba(0,0,0,1)","family":"","size":11.68949771689498},"title":{"text":"Species","font":{"color":"rgba(0,0,0,1)","family":"","size":14.611872146118724}}},"hovermode":"closest","barmode":"relative"},"config":{"doubleClick":"reset","modeBarButtonsToAdd":["hoverclosest","hovercompare"],"showSendToCloud":false},"source":"A","attrs":{"e3ca7510eb3a":{"x":{},"y":{},"fill":{},"type":"scatter"}},"cur_data":"e3ca7510eb3a","visdat":{"e3ca7510eb3a":["function (y) ","x"]},"highlight":{"on":"plotly_click","persistent":false,"dynamic":false,"selectize":false,"opacityDim":0.20000000000000001,"selected":{"opacity":1},"debounce":0},"shinyEvents":["plotly_hover","plotly_click","plotly_selected","plotly_relayout","plotly_brushed","plotly_brushing","plotly_clickannotation","plotly_doubleclick","plotly_deselect","plotly_afterplot","plotly_sunburstclick"],"base_url":"https://plot.ly"},"evals":[],"jsHooks":[]}</script>
 <p>This lesson was contributed by <a
 href="https://github.com/MarthaWohlfeil">Martha Zillig</a>.</p>
 <p>This lesson is adapted from the Software Carpentry: R for
